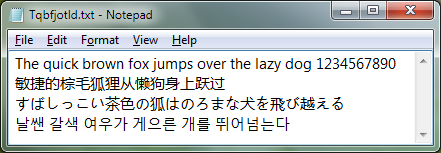
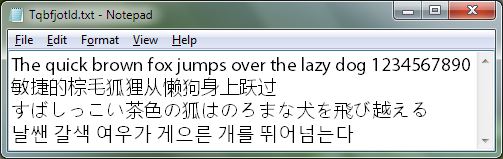
Fix a bug that causes font linking fails Fix a bug that crashes gdimm if freetype_loader=0 Change snapshot font to Myriad Pro.

diff --git a/gdimm/font_man.cpp b/gdimm/font_man.cpp
@@ -123,6 +123,7 @@ long _gdimm_font_man::lookup_font(const LOGFONTW &font_attr, const WCHAR *font_f
 	if (iter == _font_ids.end())
 	{
 		LOGFONTW linked_font_attr = font_attr;
+		linked_font_attr.lfOutPrecision = OUT_DEFAULT_PRECIS;
 		wcsncpy_s(linked_font_attr.lfFaceName, font_family, LF_FACESIZE);
 		HFONT new_hfont = CreateFontIndirectW(&linked_font_attr);
 
@@ -143,7 +144,7 @@ long _gdimm_font_man::lookup_font(const LOGFONTW &font_attr, const WCHAR *font_f
 WORD _gdimm_font_man::get_glyph_index(WCHAR ch)
 {
 	WORD glyph_index;
-	
+
 	DWORD converted = GetGlyphIndices(_font_holder, &ch, 1, &glyph_index, GGI_MARK_NONEXISTING_GLYPHS);
 	assert(converted == 1);
 

diff --git a/gdimm/text.cpp b/gdimm/text.cpp
@@ -819,6 +819,8 @@ bool _gdimm_text::text_out_ggo(const WCHAR *lpString, UINT c, CONST RECT *lprect
 	bool draw_success = false;
 	if (!glyphs.empty())
 	{
+		get_gamma_ramps(get_font_family(), render_mode & FT_RENDER_MODE_LCD);
+
 		draw_success = draw_glyphs(glyphs, glyph_pos, max_glyph_height, lprect, dc_bmp);
 		
 		for (size_t i = 0; i < glyphs.size(); i++)
